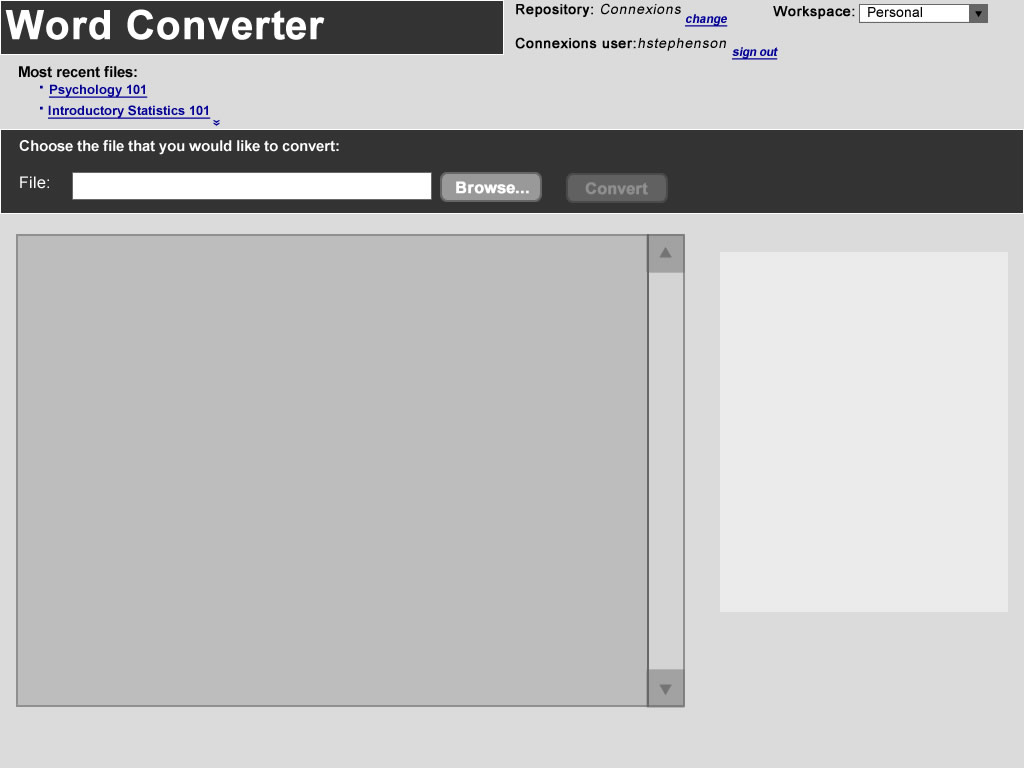
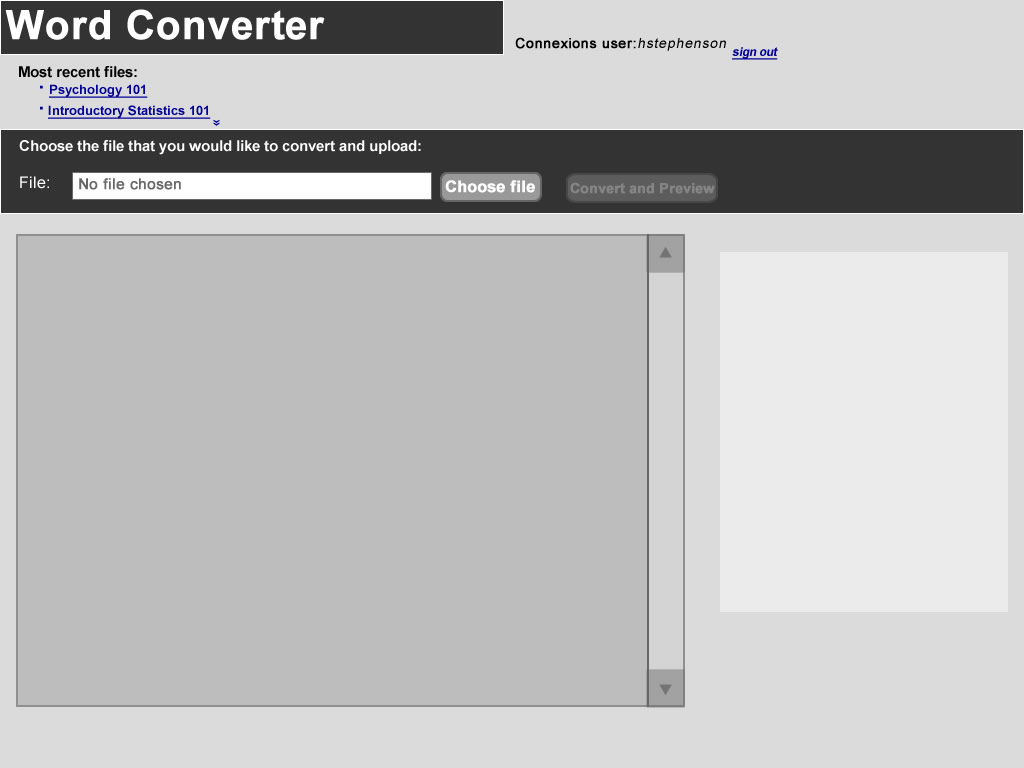
Wireframes updated to version 3

diff --git a/docs/wireframes/add roles.htm b/docs/wireframes/add roles.htm
@@ -3,13 +3,12 @@
 <!-- saved from url=(0014)about:internet -->
 <html xmlns="http://www.w3.org/1999/xhtml">
 <head>
-<title>roles</title>
+<title>add roles</title>
 <meta http-equiv="Content-Type" content="text/html; charset=utf-8" />
-<!--Fireworks CS3 Dreamweaver CS3 target.  Created Tue Oct 11 23:18:49 GMT-0500 (Central Daylight Time) 2011-->
+<!--Fireworks CS3 Dreamweaver CS3 target.  Created Tue Oct 11 23:18:50 GMT-0500 (Central Daylight Time) 2011-->
 </head>
 <body bgcolor="#dbdbdb">
-<img name="roles" src="roles.jpg" width="1024" height="768" border="0" id="roles" usemap="#m_roles" alt="" /><map name="m_roles" id="m_roles">
-<area shape="rect" coords="45,411,115,424" href="add roles.htm" alt="" />
+<img name="addroles" src="add%20roles.jpg" width="1024" height="768" border="0" id="addroles" usemap="#m_add20roles" alt="" /><map name="m_add20roles" id="m_add20roles">
 <area shape="poly" coords="530,547,532,542,537,540,641,540,646,542,648,547,648,561,646,566,641,568,537,568,532,566,530,561,530,547,530,547" href="upload success.htm" alt="" />
 <area shape="poly" coords="339,547,342,542,348,540,478,540,484,542,487,547,487,561,484,566,478,568,348,568,342,566,339,561,339,547,339,547" href="upload success.htm" alt="" />
 <area shape="rect" coords="732,47,778,60" href="index.htm" alt="" />

diff --git a/docs/wireframes/wireframe.htm b/docs/wireframes/wireframe.htm
@@ -5,14 +5,13 @@
 <head>
 <title>wireframe</title>
 <meta http-equiv="Content-Type" content="text/html; charset=utf-8" />
-<!--Fireworks CS3 Dreamweaver CS3 target.  Created Sun Oct 02 18:27:33 GMT-0500 (Central Daylight Time) 2011-->
+<!--Fireworks CS3 Dreamweaver CS3 target.  Created Tue Oct 11 23:12:23 GMT-0500 (Central Daylight Time) 2011-->
 </head>
 <body bgcolor="#dbdbdb">
 <img name="wireframe" src="wireframe.jpg" width="1024" height="768" border="0" id="wireframe" usemap="#m_wireframe" alt="" /><map name="m_wireframe" id="m_wireframe">
-<area shape="rect" coords="440,172,542,202" href="convert.htm" alt="" />
-<area shape="rect" coords="271,417,393,437" href="javascript:;" alt="" />
-<area shape="rect" coords="732,47,778,60" href="converting.htm" alt="" />
-<area shape="rect" coords="685,14,728,27" href="index.htm" alt="" />
+<area shape="poly" coords="530,547,532,542,537,540,641,540,646,542,648,547,648,561,646,566,641,568,537,568,532,566,530,561,530,547,530,547" href="upload success.htm" alt="" />
+<area shape="poly" coords="339,547,342,542,348,540,478,540,484,542,487,547,487,561,484,566,478,568,348,568,342,566,339,561,339,547,339,547" href="upload success.htm" alt="" />
+<area shape="rect" coords="732,47,778,60" href="index.htm" alt="" />
 </map>
 </body>
 </html>

diff --git a/docs/wireframes/upload.htm b/docs/wireframes/upload.htm
@@ -5,14 +5,14 @@
 <head>
 <title>upload</title>
 <meta http-equiv="Content-Type" content="text/html; charset=utf-8" />
-<!--Fireworks CS3 Dreamweaver CS3 target.  Created Fri Oct 07 01:52:37 GMT-0500 (Central Daylight Time) 2011-->
+<!--Fireworks CS3 Dreamweaver CS3 target.  Created Tue Oct 11 23:18:47 GMT-0500 (Central Daylight Time) 2011-->
 </head>
 <body bgcolor="#dbdbdb">
 <img name="upload" src="upload.jpg" width="1024" height="768" border="0" id="upload" usemap="#m_upload" alt="" /><map name="m_upload" id="m_upload">
-<area shape="rect" coords="754,357,840,371" href="roles.htm" alt="" />
+<area shape="rect" coords="736,655,888,700" href="upload success.htm" alt="" />
+<area shape="rect" coords="732,47,778,60" href="index.htm" alt="" />
+<area shape="rect" coords="779,357,865,371" href="roles.htm" alt="" />
 <area shape="rect" coords="732,47,778,60" href="upload.htm" alt="" />
-<area shape="rect" coords="685,14,728,27" href="upload.htm" alt="" />
-<area shape="rect" coords="691,720,793,750" href="upload success.htm" alt="" />
 </map>
 </body>
 </html>

diff --git a/docs/wireframes/upload success.htm b/docs/wireframes/upload success.htm
@@ -5,14 +5,13 @@
 <head>
 <title>upload success</title>
 <meta http-equiv="Content-Type" content="text/html; charset=utf-8" />
-<!--Fireworks CS3 Dreamweaver CS3 target.  Created Fri Oct 07 01:52:39 GMT-0500 (Central Daylight Time) 2011-->
+<!--Fireworks CS3 Dreamweaver CS3 target.  Created Tue Oct 11 23:18:48 GMT-0500 (Central Daylight Time) 2011-->
 </head>
 <body bgcolor="#dbdbdb">
 <img name="uploadsuccess" src="upload%20success.jpg" width="1024" height="768" border="0" id="uploadsuccess" usemap="#m_upload20success" alt="" /><map name="m_upload20success" id="m_upload20success">
 <area shape="rect" coords="588,381,674,395" href="roles.htm" alt="" />
 <area shape="rect" coords="47,445,101,459" href="javascript:;" alt="" />
 <area shape="rect" coords="732,47,778,60" href="index.htm" alt="" />
-<area shape="rect" coords="685,14,728,27" href="index.htm" alt="" />
 <area shape="rect" coords="837,648,939,678" href="index.htm" alt="" />
 <area shape="rect" coords="619,648,801,678" href="choose file.htm" alt="" />
 </map>

diff --git a/docs/wireframes/converted.htm b/docs/wireframes/converted.htm
@@ -5,13 +5,13 @@
 <head>
 <title>converted</title>
 <meta http-equiv="Content-Type" content="text/html; charset=utf-8" />
-<!--Fireworks CS3 Dreamweaver CS3 target.  Created Fri Oct 07 01:52:36 GMT-0500 (Central Daylight Time) 2011-->
+<!--Fireworks CS3 Dreamweaver CS3 target.  Created Tue Oct 11 23:18:46 GMT-0500 (Central Daylight Time) 2011-->
 </head>
 <body bgcolor="#dbdbdb">
 <img name="converted" src="converted.jpg" width="1024" height="768" border="0" id="converted" usemap="#m_converted" alt="" /><map name="m_converted" id="m_converted">
-<area shape="rect" coords="812,605,914,635" href="upload.htm" alt="" />
 <area shape="rect" coords="732,47,778,60" href="index.htm" alt="" />
-<area shape="rect" coords="685,14,728,27" href="index.htm" alt="" />
+<area shape="rect" coords="812,655,914,685" href="upload.htm" alt="" />
+<area shape="rect" coords="732,47,778,60" href="index.htm" alt="" />
 </map>
 </body>
 </html>

diff --git a/docs/wireframes/Change repository.htm b/docs/wireframes/Change repository.htm
@@ -1,0 +1,16 @@
+<!DOCTYPE html PUBLIC "-//W3C//DTD XHTML 1.0 Transitional//EN"
+"http://www.w3.org/TR/xhtml1/DTD/xhtml1-transitional.dtd">
+<!-- saved from url=(0014)about:internet -->
+<html xmlns="http://www.w3.org/1999/xhtml">
+<head>
+<title>Change repository</title>
+<meta http-equiv="Content-Type" content="text/html; charset=utf-8" />
+<!--Fireworks CS3 Dreamweaver CS3 target.  Created Tue Oct 11 23:18:42 GMT-0500 (Central Daylight Time) 2011-->
+</head>
+<body bgcolor="#dbdbdb">
+<img name="Changerepository" src="Change%20repository.jpg" width="1024" height="768" border="0" id="Changerepository" usemap="#m_Change20repository" alt="" /><map name="m_Change20repository" id="m_Change20repository">
+<area shape="rect" coords="235,302,337,324" href="choose file.htm" alt="" />
+<area shape="rect" coords="352,133,391,146" href="index.htm" alt="" />
+</map>
+</body>
+</html>

diff --git a/docs/wireframes/converting.htm b/docs/wireframes/converting.htm
@@ -5,14 +5,13 @@
 <head>
 <title>converting</title>
 <meta http-equiv="Content-Type" content="text/html; charset=utf-8" />
-<!--Fireworks CS3 Dreamweaver CS3 target.  Created Fri Oct 07 01:52:35 GMT-0500 (Central Daylight Time) 2011-->
+<!--Fireworks CS3 Dreamweaver CS3 target.  Created Tue Oct 11 23:18:45 GMT-0500 (Central Daylight Time) 2011-->
 </head>
 <body bgcolor="#dbdbdb">
 <img name="converting" src="converting.jpg" width="1024" height="768" border="0" id="converting" usemap="#m_converting" alt="" /><map name="m_converting" id="m_converting">
 <area shape="rect" coords="440,172,542,202" href="convert.htm" alt="" />
 <area shape="rect" coords="271,417,393,437" href="converted.htm" alt="" />
 <area shape="rect" coords="732,47,778,60" href="converting.htm" alt="" />
-<area shape="rect" coords="685,14,728,27" href="index.htm" alt="" />
 </map>
 </body>
 </html>

diff --git a/docs/wireframes/choose file.htm b/docs/wireframes/choose file.htm
@@ -5,13 +5,13 @@
 <head>
 <title>choose file</title>
 <meta http-equiv="Content-Type" content="text/html; charset=utf-8" />
-<!--Fireworks CS3 Dreamweaver CS3 target.  Created Fri Oct 07 01:52:34 GMT-0500 (Central Daylight Time) 2011-->
+<!--Fireworks CS3 Dreamweaver CS3 target.  Created Tue Oct 11 23:18:43 GMT-0500 (Central Daylight Time) 2011-->
 </head>
 <body bgcolor="#dbdbdb">
 <img name="choosefile" src="choose%20file.jpg" width="1024" height="768" border="0" id="choosefile" usemap="#m_choose20file" alt="" /><map name="m_choose20file" id="m_choose20file">
+<area shape="rect" coords="732,47,778,60" href="index.htm" alt="" />
 <area shape="rect" coords="440,173,542,202" href="convert.htm" alt="" />
 <area shape="rect" coords="732,47,778,60" href="index.htm" alt="" />
-<area shape="rect" coords="685,14,728,27" href="index.htm" alt="" />
 </map>
 </body>
 </html>

diff --git a/docs/wireframes/convert.htm b/docs/wireframes/convert.htm
@@ -5,13 +5,12 @@
 <head>
 <title>convert</title>
 <meta http-equiv="Content-Type" content="text/html; charset=utf-8" />
-<!--Fireworks CS3 Dreamweaver CS3 target.  Created Fri Oct 07 01:52:35 GMT-0500 (Central Daylight Time) 2011-->
+<!--Fireworks CS3 Dreamweaver CS3 target.  Created Tue Oct 11 23:18:44 GMT-0500 (Central Daylight Time) 2011-->
 </head>
 <body bgcolor="#dbdbdb">
 <img name="convert" src="convert.jpg" width="1024" height="768" border="0" id="convert" usemap="#m_convert" alt="" /><map name="m_convert" id="m_convert">
-<area shape="rect" coords="566,173,668,203" href="converting.htm" alt="" />
+<area shape="rect" coords="566,173,718,203" href="converting.htm" alt="" />
 <area shape="rect" coords="732,47,778,60" href="index.htm" alt="" />
-<area shape="rect" coords="685,14,728,27" href="index.htm" alt="" />
 </map>
 </body>
 </html>

diff --git a/docs/wireframes/index.htm b/docs/wireframes/index.htm
@@ -5,11 +5,12 @@
 <head>
 <title>index</title>
 <meta http-equiv="Content-Type" content="text/html; charset=utf-8" />
-<!--Fireworks CS3 Dreamweaver CS3 target.  Created Fri Oct 07 01:52:33 GMT-0500 (Central Daylight Time) 2011-->
+<!--Fireworks CS3 Dreamweaver CS3 target.  Created Tue Oct 11 23:18:41 GMT-0500 (Central Daylight Time) 2011-->
 </head>
 <body bgcolor="#dbdbdb">
 <img name="index" src="index.jpg" width="1024" height="768" border="0" id="index" usemap="#m_index" alt="" /><map name="m_index" id="m_index">
-<area shape="rect" coords="235,358,337,380" href="choose file.htm" alt="" />
+<area shape="rect" coords="191,111,234,124" href="Change repository.htm" alt="" />
+<area shape="rect" coords="235,302,337,324" href="choose file.htm" alt="" />
 </map>
 </body>
 </html>
